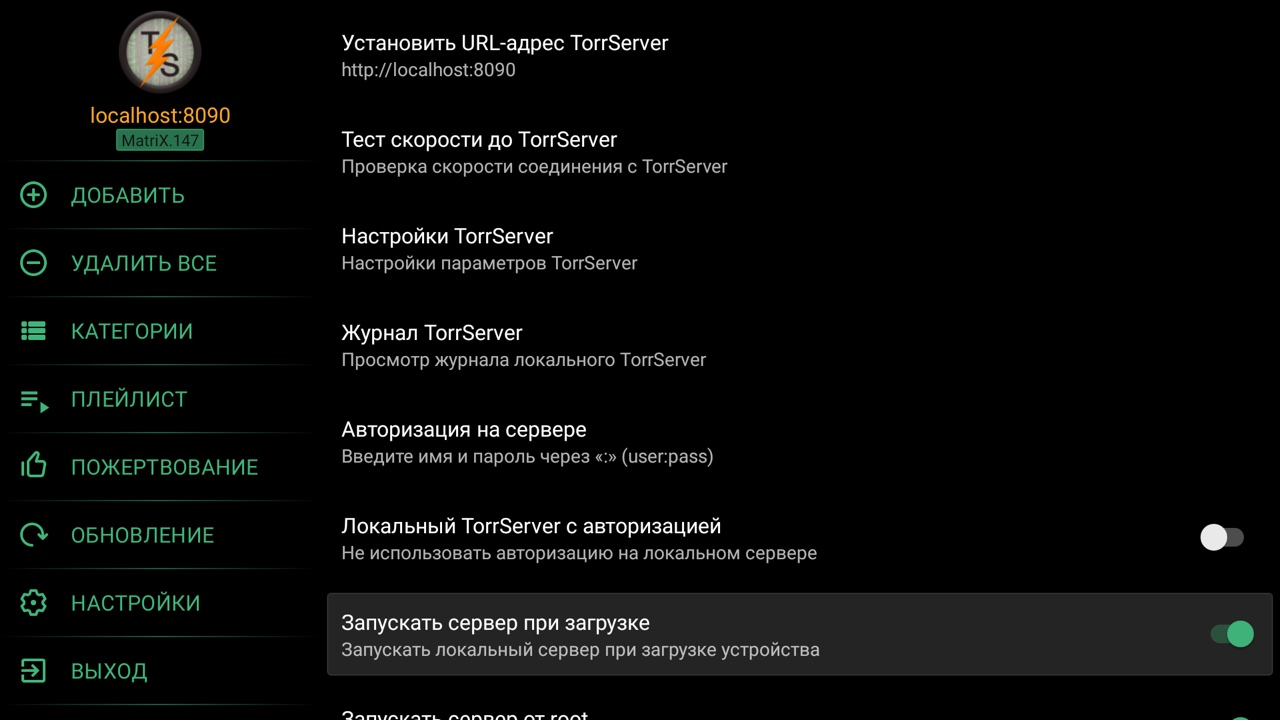
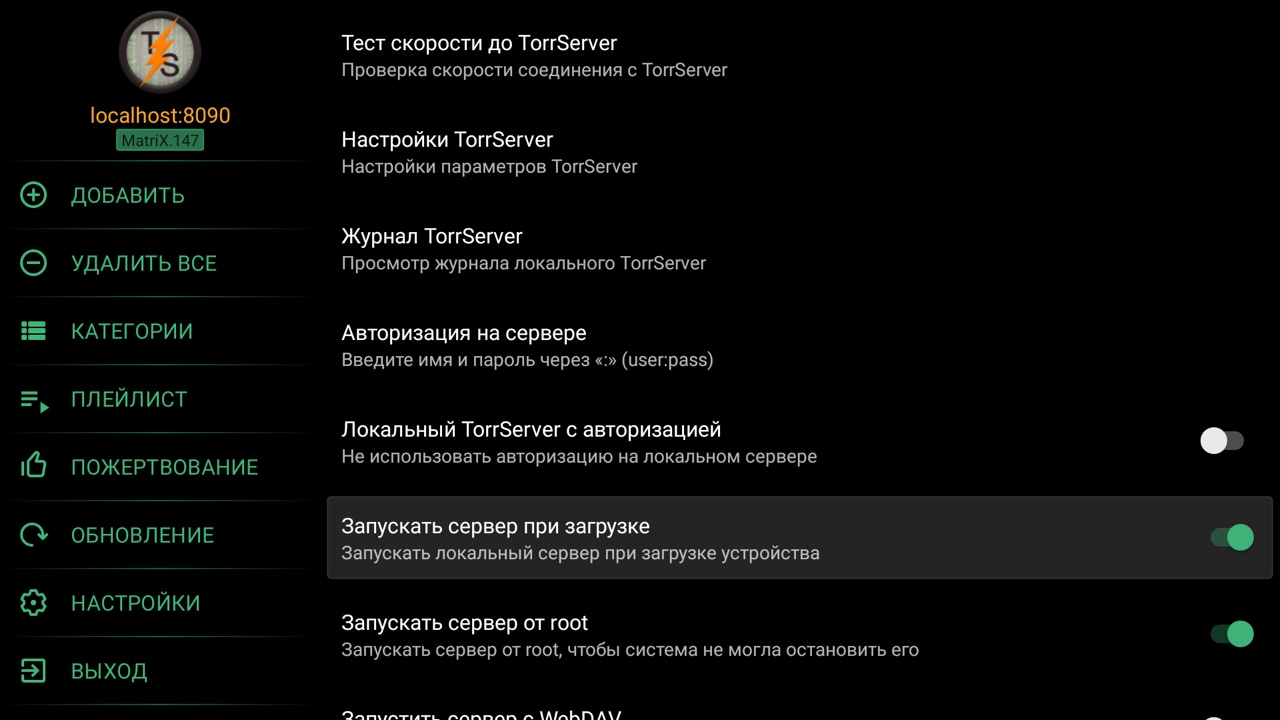
Гайд v2: кадр настроек TorrServe с обоими пунктами (снимок владельца)

diff --git a/docs/start.md b/docs/start.md
@@ -56,7 +56,7 @@ Melange — каталог фильмов и сериалов для Dune HD. В
 
 1. Откройте TorrServe. Если он попросит установить сервер — установите. В настройках TorrServe включите **«Запускать сервер при загрузке»** и ниже **«Запускать сервер от root»**.
 
-   <img src="../screenshots/start-torrserve-autostart.jpg" alt="Настройки TorrServe: «Запускать сервер при загрузке» включён, фокус на нём" width="100%">
+   <img src="../screenshots/start-torrserve-autostart.jpg" alt="Настройки TorrServe: включены «Запускать сервер при загрузке» и «Запускать сервер от root»" width="100%">
 
 2. Откройте **«Приложения»** → **«Melange»**.
 
